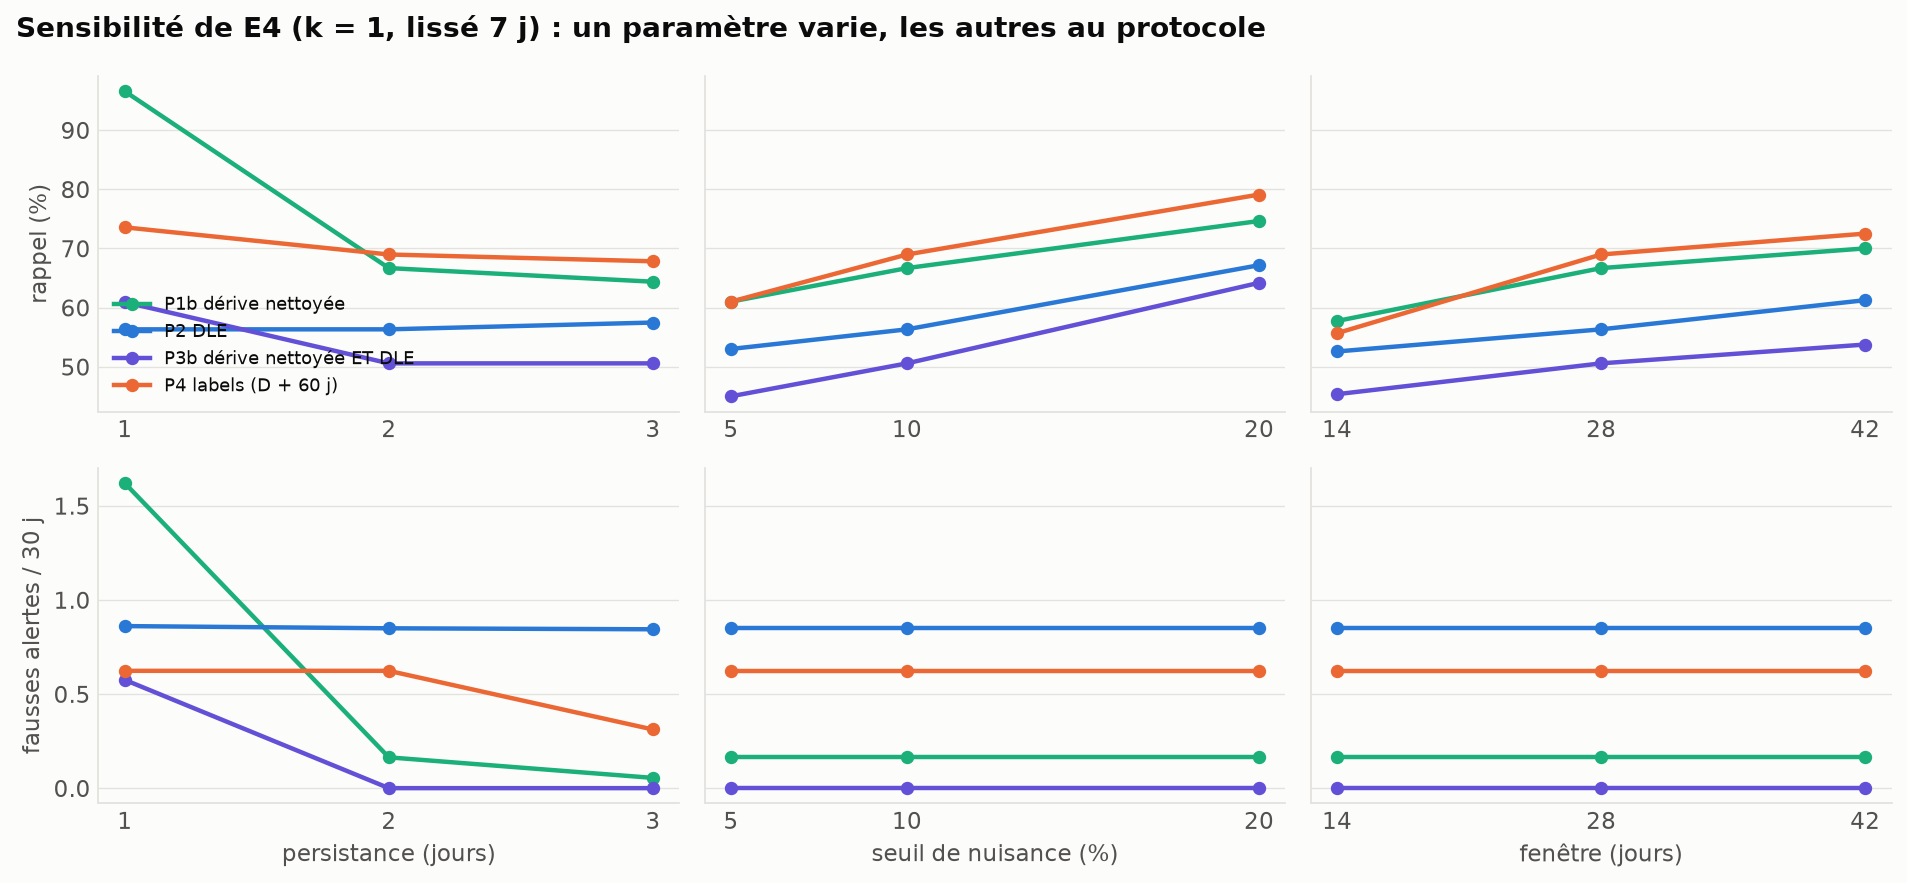
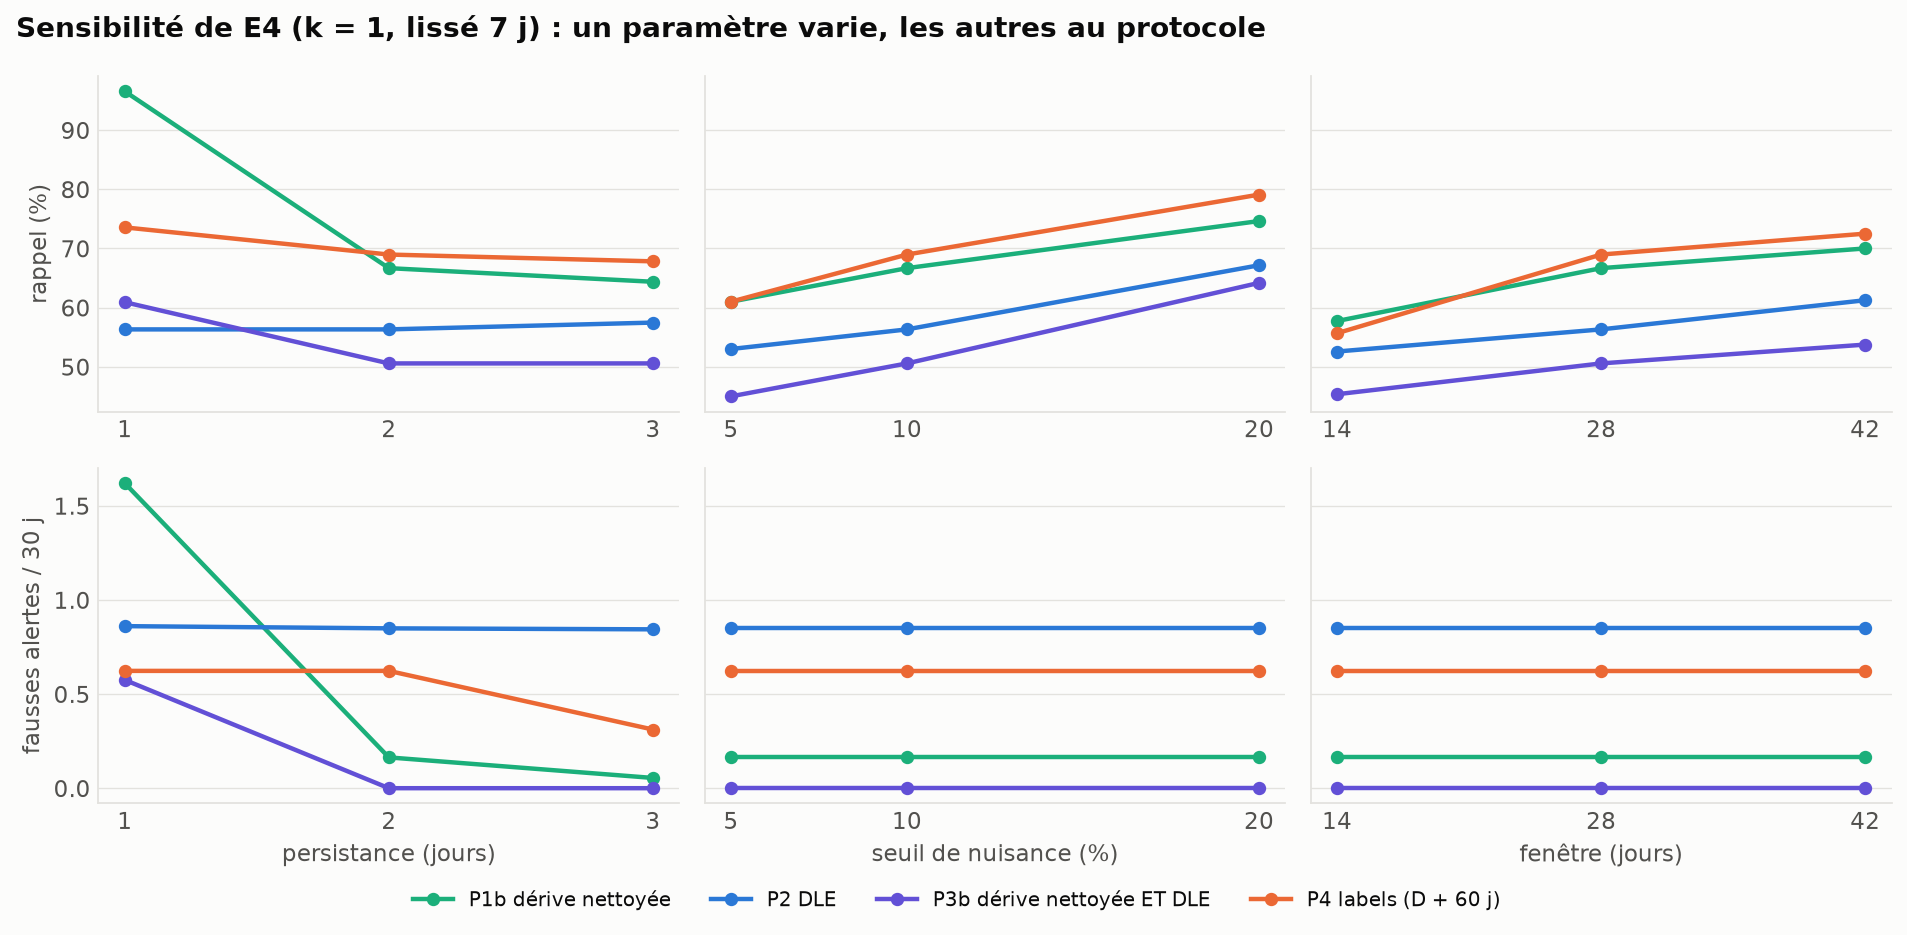
feat(figures): légende de la sensibilité sous la figure

diff --git a/scripts/make_result_figures.py b/scripts/make_result_figures.py
@@ -763,7 +763,8 @@ def e4_sensitivity() -> None:
         axes[1, j].set_xticks(x)
     axes[0, 0].set_ylabel("rappel (%)")
     axes[1, 0].set_ylabel("fausses alertes / 30 j")
-    axes[0, 0].legend(loc="lower left", fontsize=8)
+    handles, labels = axes[0, 0].get_legend_handles_labels()
+    fig.legend(handles, labels, loc="lower center", ncols=4, fontsize=9, bbox_to_anchor=(0.5, -0.04))
     fig.suptitle(
         "Sensibilité de E4 (k = 1, lissé 7 j) : un paramètre varie, les autres au protocole",
         x=0.01,
